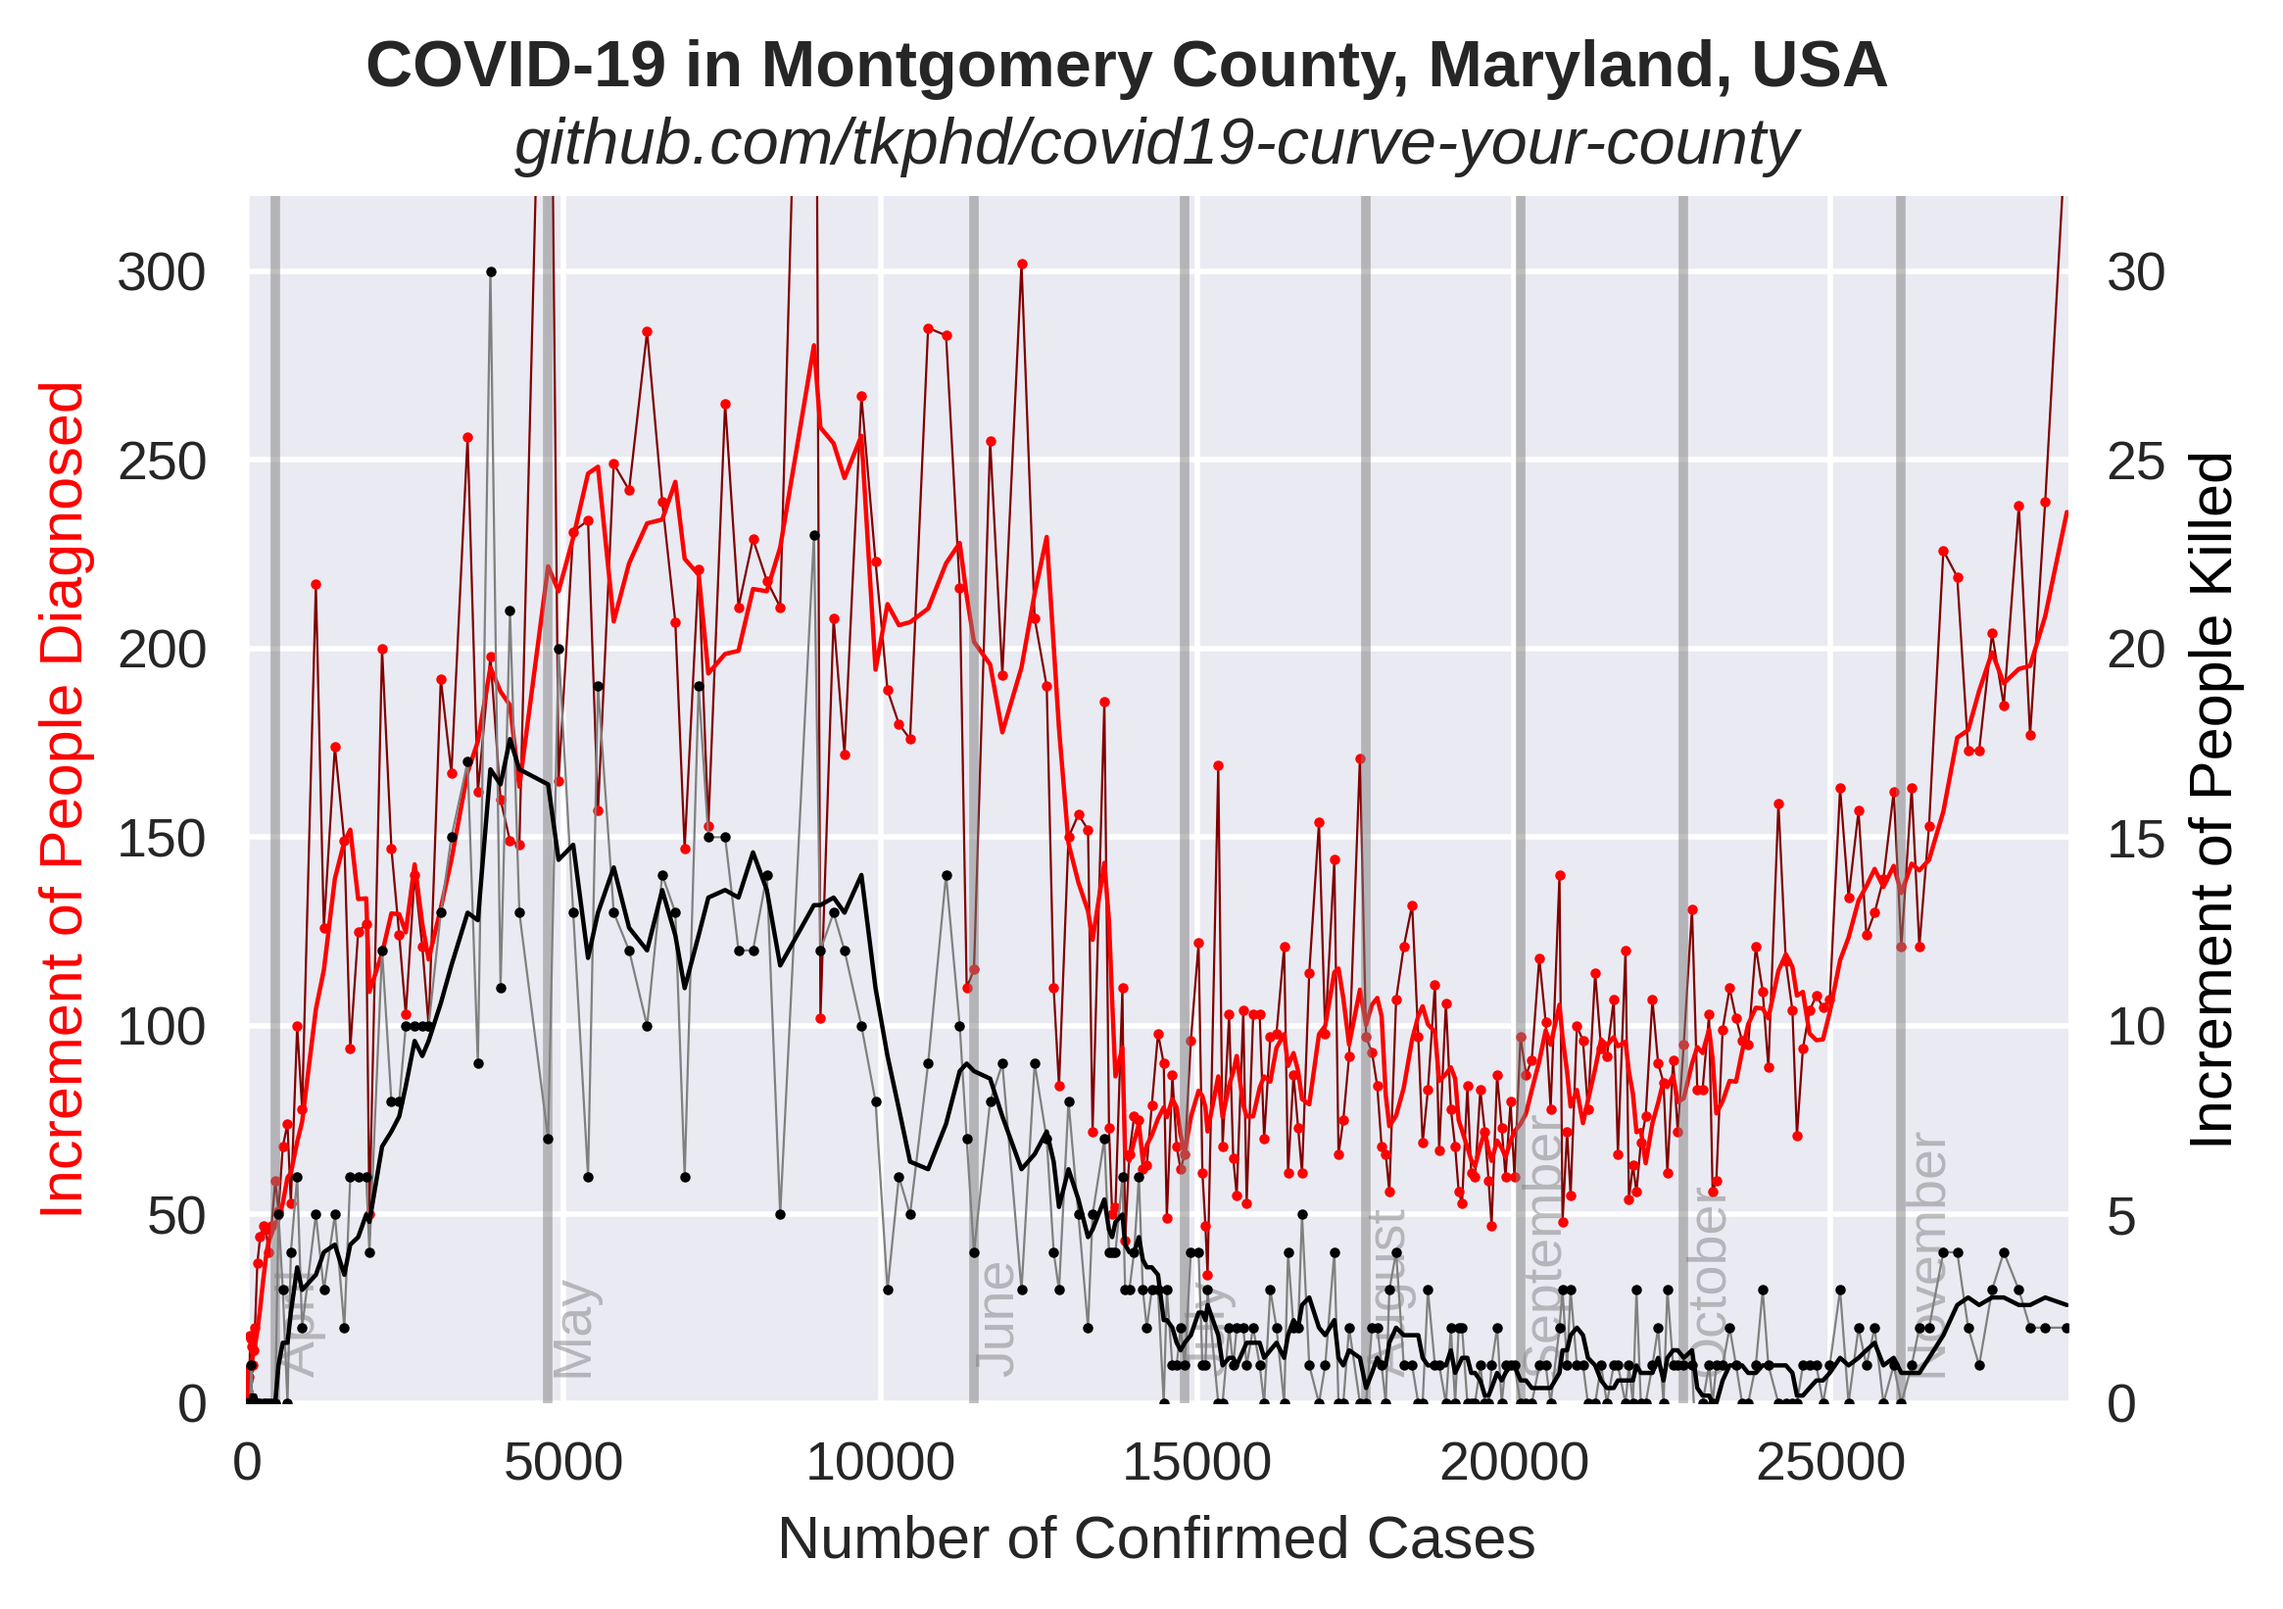
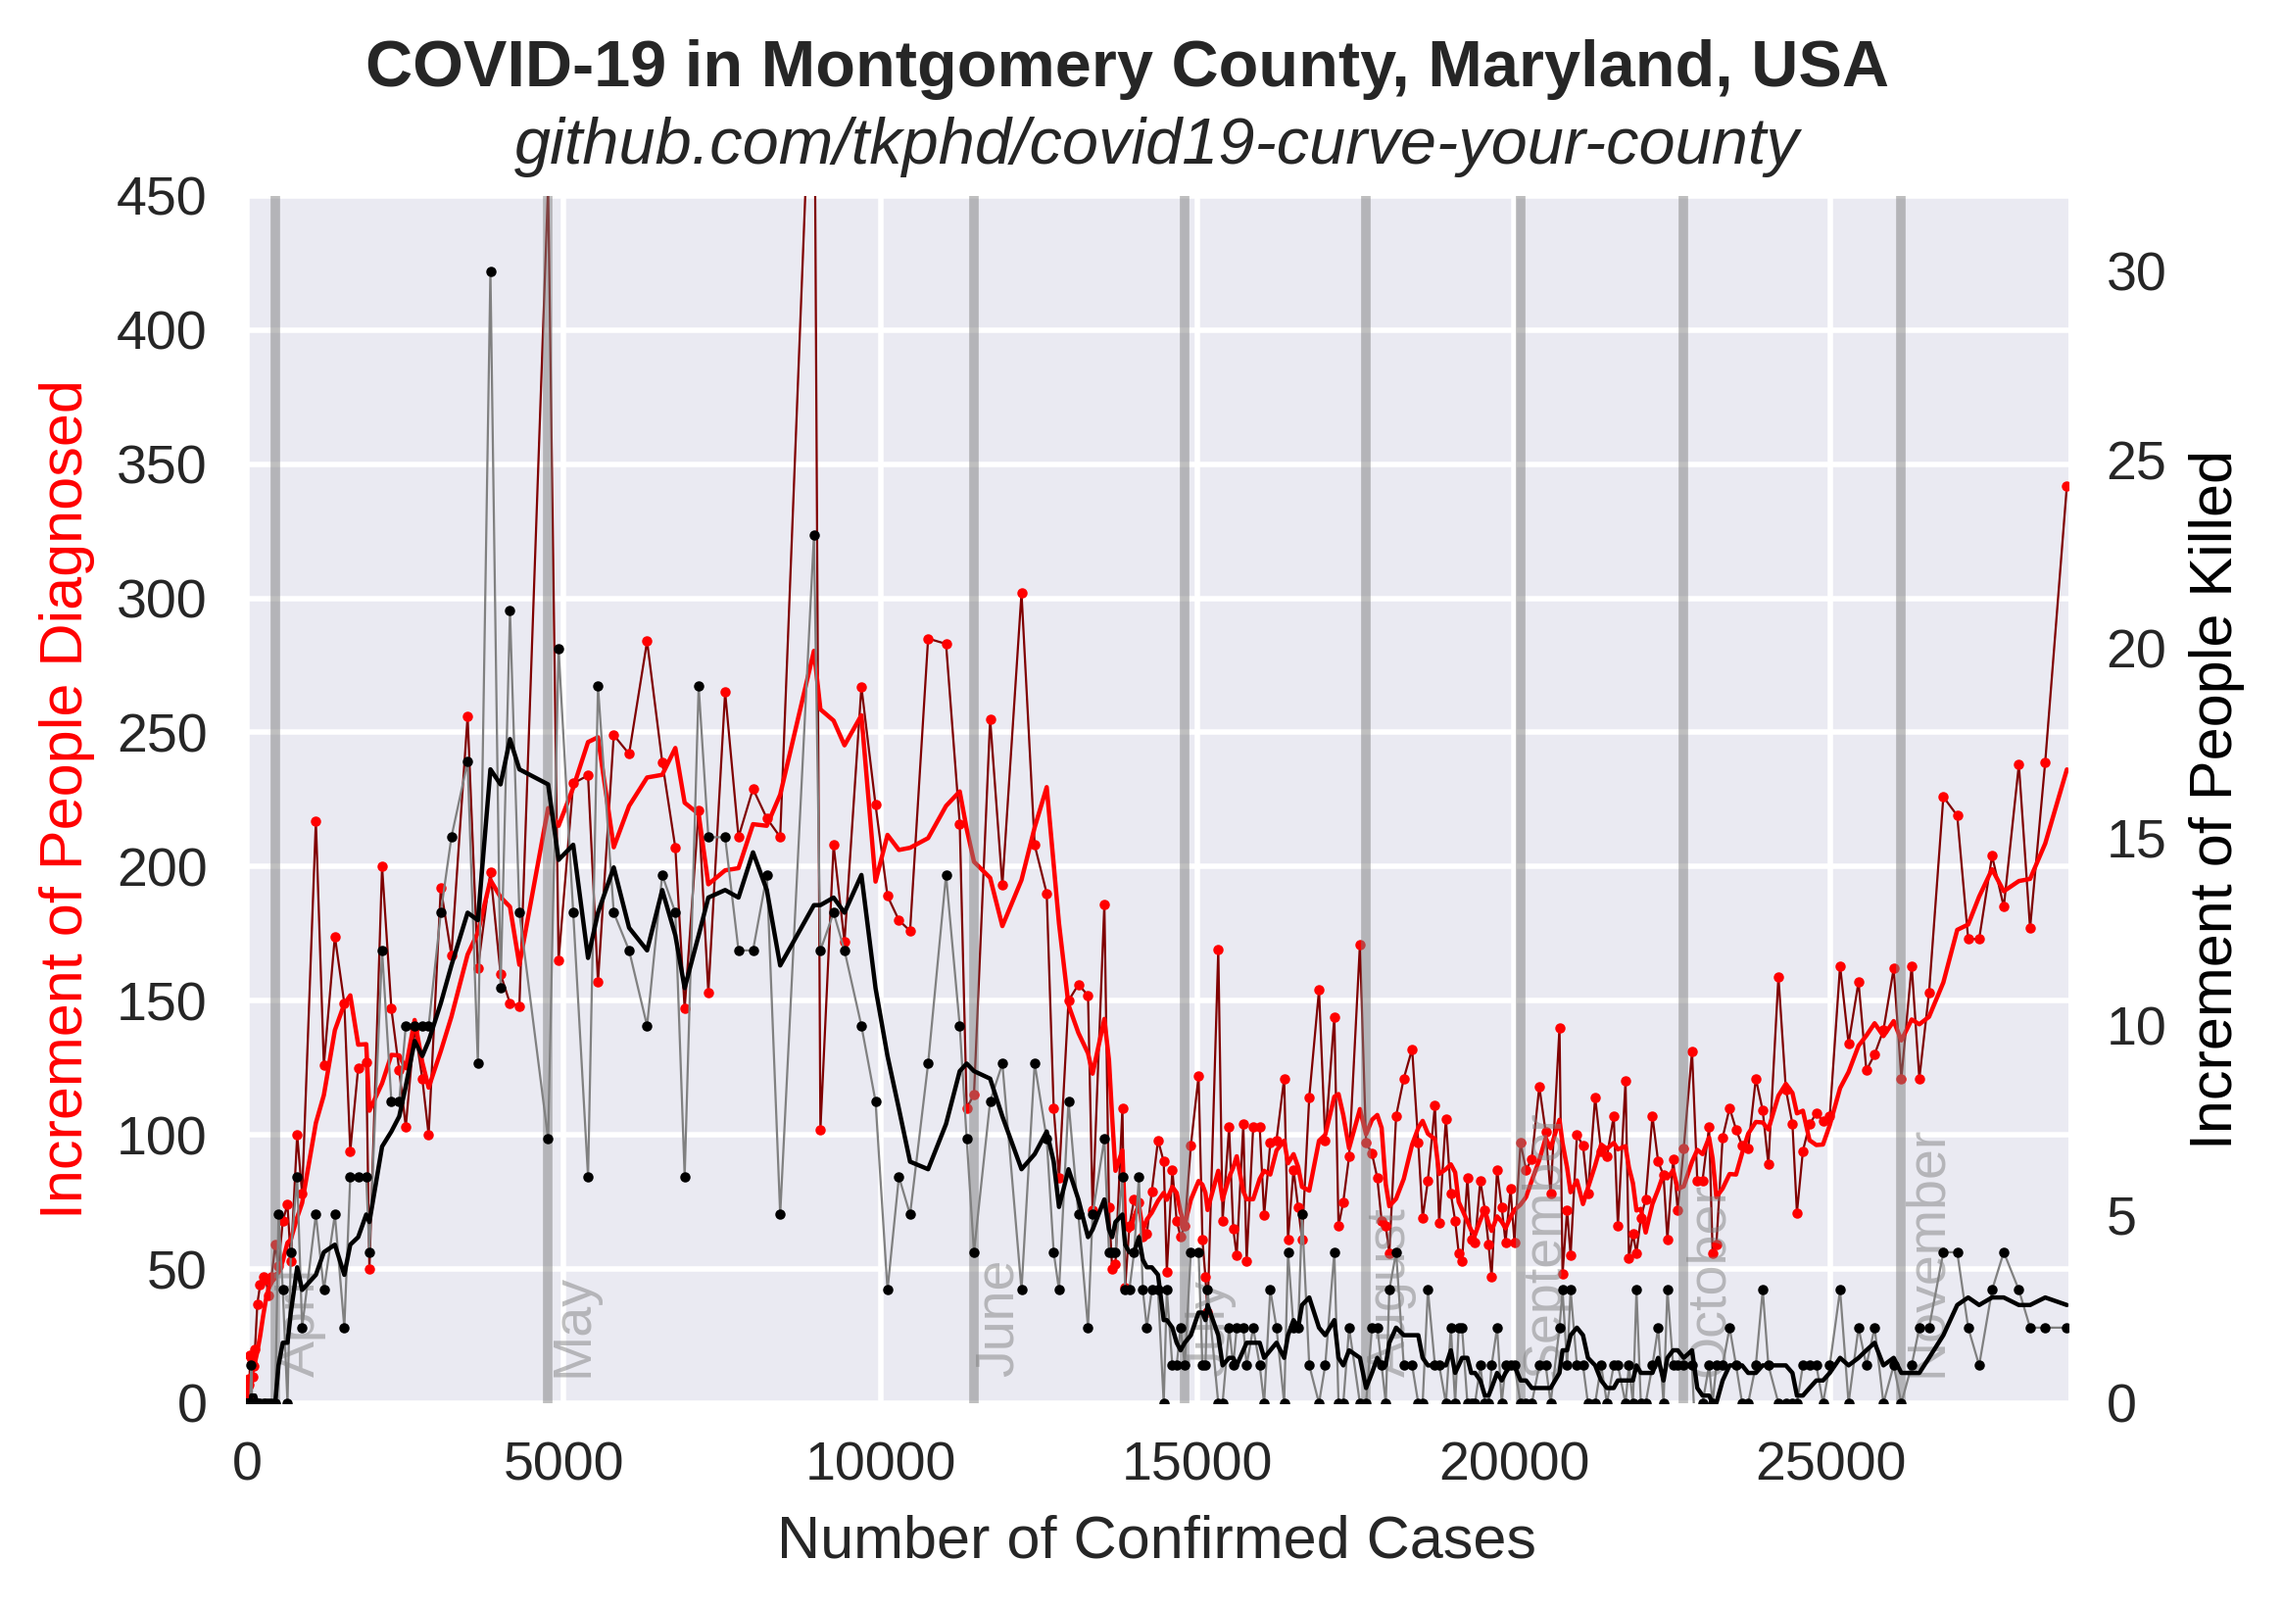
rescale increment

diff --git a/exponential.py b/exponential.py
@@ -190,7 +190,7 @@ for i in np.arange(len(y) - 1, 1, -1):
 
 ax1.set_xlabel("Number of Confirmed Cases")
 ax1.set_xlim([-20, np.max(x) + 20])
-ax1.set_ylim([0, 320])
+ax1.set_ylim([0, 450])
 ax1.set_ylabel("Increment of People {0}".format(key.capitalize()), color=colors[key])
 ax1.scatter(x, y, s=2.5, color=colors[key], label=key.capitalize(), zorder=5)
 ax1.plot(x, y, linewidth=0.4, color="maroon", label=None, zorder=1)
